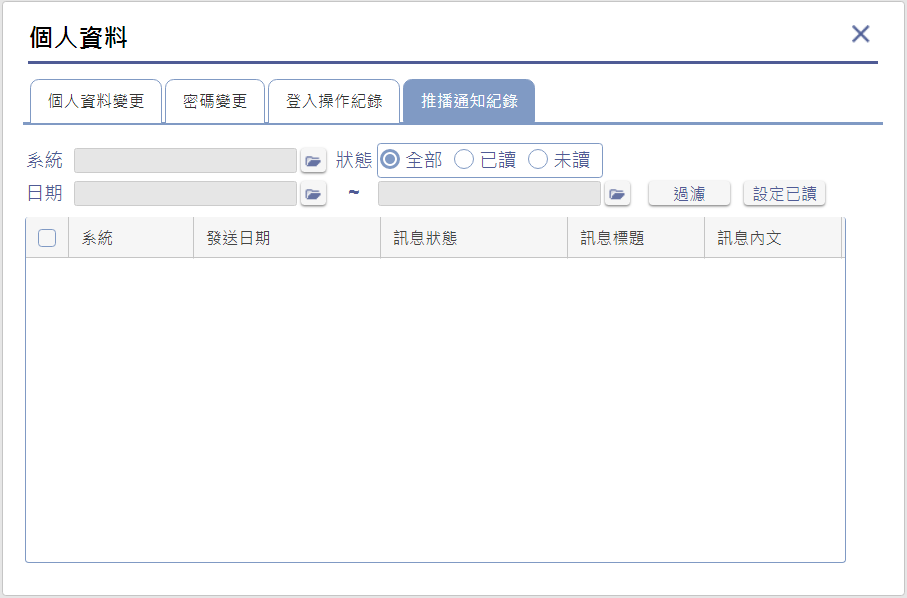
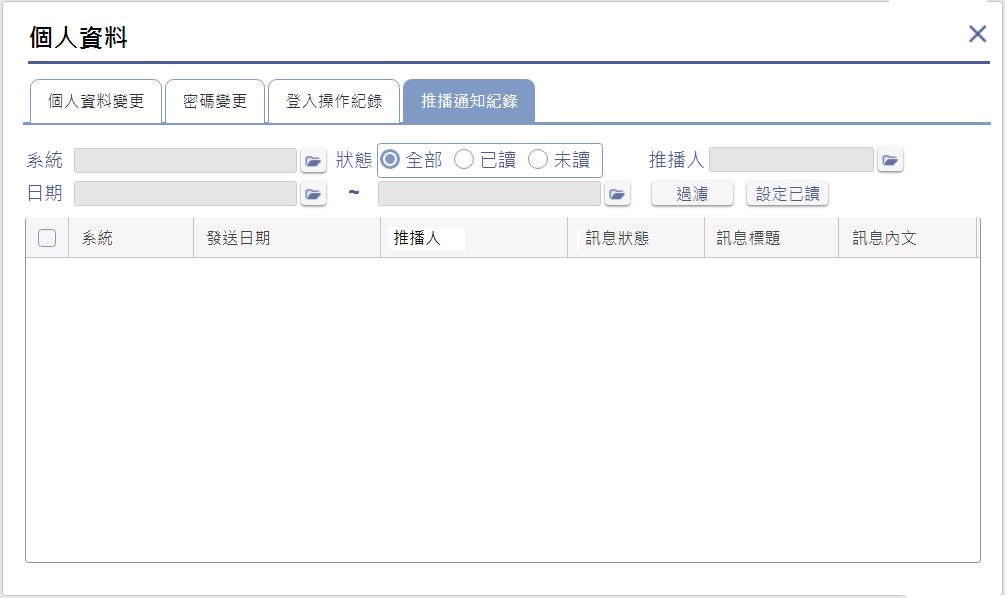
推播通知 擴充

diff --git a/8.10.0/UPDATE/ITEM_2/RTE/pushmessagelog.md b/8.10.0/UPDATE/ITEM_2/RTE/pushmessagelog.md
@@ -24,6 +24,7 @@
         * 全部 : 包含狀態為 已讀 / 未讀 的推播通知。
         * 已讀 : 狀態為 已讀 的推播通知。
         * 未讀 : 狀態為 未讀 的推播通知。
+    * 欄位.推播人 : 不可輸入，僅能點擊按鈕開啟推播人清單，從該使用者已收到的推播通知的推播人資訊，進行推播人挑選，表示推播通知由哪位推播人發出。
     * 欄位.日期起訖 : 不可輸入，僅能點擊按鈕挑選日期，表示推播通知發送日期區間。
     * 按鈕.過濾 : 點擊後，依據欄位.系統 / 欄位.狀態 / 欄位.日期起訖 進行使用者已接收的推播通知過濾，並顯示在表格.推播訊息清單。
     * 表格.推播訊息清單 : 顯示使用者已接收推播訊息的表格。

diff --git a/8.10.0/UPDATE/ITEM_2/RTE/pushmessagedetail.md b/8.10.0/UPDATE/ITEM_2/RTE/pushmessagedetail.md
@@ -19,7 +19,8 @@
     * 欄位.系統 : 顯示指定推播通知紀錄所屬系統。
     * 欄位.狀態 : 顯示指定推播通知紀錄狀態。
     * 欄位.日期 : 顯示指定推播通知紀錄發送成功日期。
-    * 欄位.標題 : 顯示指定推播通知紀錄的標題。
+    * 欄位.日期 : 顯示指定推播通知紀錄發送成功日期。
+    * 欄位.推播人 : 顯示指定推播通知紀錄的推播人姓名。
     * 表格.內文 : 顯示指定推播通知紀錄的內文，若顯示不下，則出現scrollbar。
 
 * 作業流程

diff --git a/8.10.0/UPDATE/ITEM_2/RTE/README.md b/8.10.0/UPDATE/ITEM_2/RTE/README.md
@@ -23,3 +23,5 @@
     * RTE首頁擴充以下兩項 :
         * 修改表單.個人資料 : 擴充頁簽.推播通知紀錄，提供使用者查詢自己接收到的推播通知紀錄。
         * 擴充表單.推播通知明細 : 提供使用者檢視自己接收到的推播通知內容。
+    * 系統工具修改以下一項 :
+        * 修改表單.系統參數設定 : 擴充欄位.系統管理員名稱，提供給按鍵加註推播通知使用。

diff --git a/8.10.0/UPDATE/ITEM_2/RTE/_sidebar.md b/8.10.0/UPDATE/ITEM_2/RTE/_sidebar.md
@@ -13,3 +13,5 @@
     * RTE首頁
         * [表單.個人資料](pushmessagelog.md)
         * [表單.推播通知明細](pushmessagedetail.md)
+    * 系統工具
+        * [系統參數設定](utl_sysparam.md)
